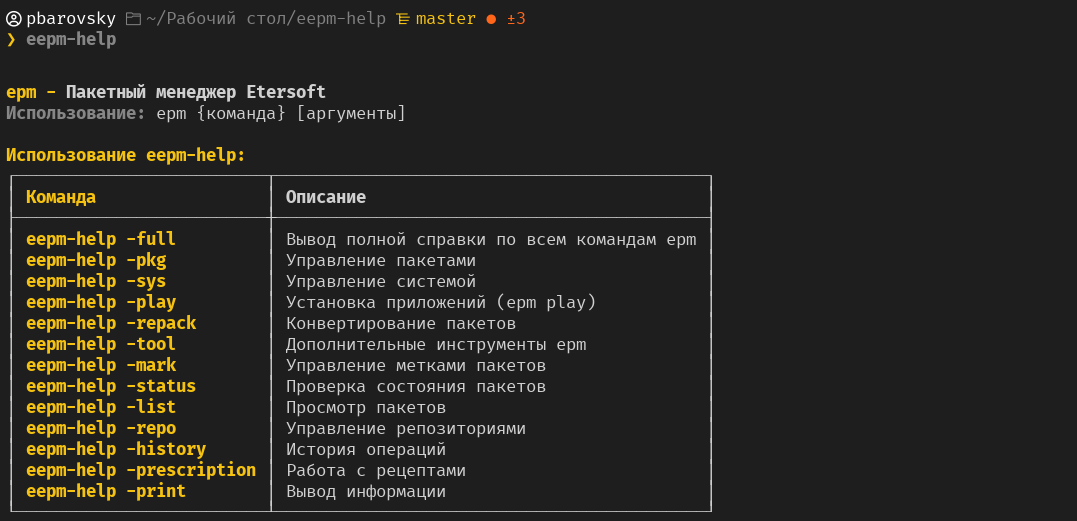
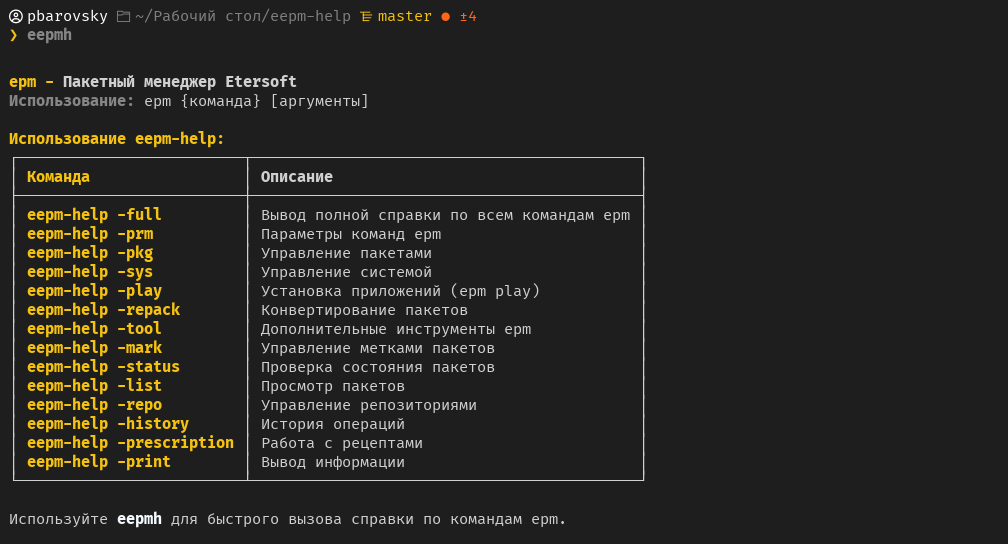
added new table with params, install and uninstall scripts, short name

Changed region(s): [[0.0, 0.1228, 0.6766, 0.9827], [0.0, 0.0, 0.4921, 0.0921], [0.6458, 0.952, 0.6766, 0.9827]]

diff --git a/README.md b/README.md
@@ -8,6 +8,7 @@
 
 ## Что добавлено в справку
 
+- параметры команд epm
 - работа с системой
 - работа с пакетами
 - просмотр состояния пакетов (`epm status`)
@@ -23,6 +24,9 @@
   - `ercat`
   - `eget`
   - `erc`
+
+> [!NOTE]
+> Вызов утилиты коротким именем `eepmh` для удобства и скорости набора.
 
 ## Как это выглядит
 
@@ -46,19 +50,13 @@ git clone https://github.com/pbarovsky/eepm-help.git
 cd eepm-help
 ```
 
-3. Скопируйте скрипт в `/usr/bin`
+3. Выполните команду по установке
 
 ```bash
-sudo cp eepm-help.sh /usr/bin/eepm-help
+sudo chmod +x install.sh && ./install.sh
 ```
 
-4. Сделайте скрипт исполняемым:
-
-```bash
-sudo chmod +x /usr/bin/eepm-help
-```
-
-5. Перезапусти терминал или выполни
+4. Перезапусти терминал или выполни
 
 ```bash
 # если используешь zsh
@@ -68,10 +66,18 @@ source ~/.zshrc
 source ~/.bashrc
 ```
 
-6. Проверьте работу скрипта
+## Удаление
+
+1. Перейдите в директорию
 
 ```bash
-eepm-help
+cd eepm-help
+```
+
+2. Выполните команду по удалению
+
+```bash
+sudo chmod +x uninstall.sh && ./uninstall.sh
 ```
 
 ---
